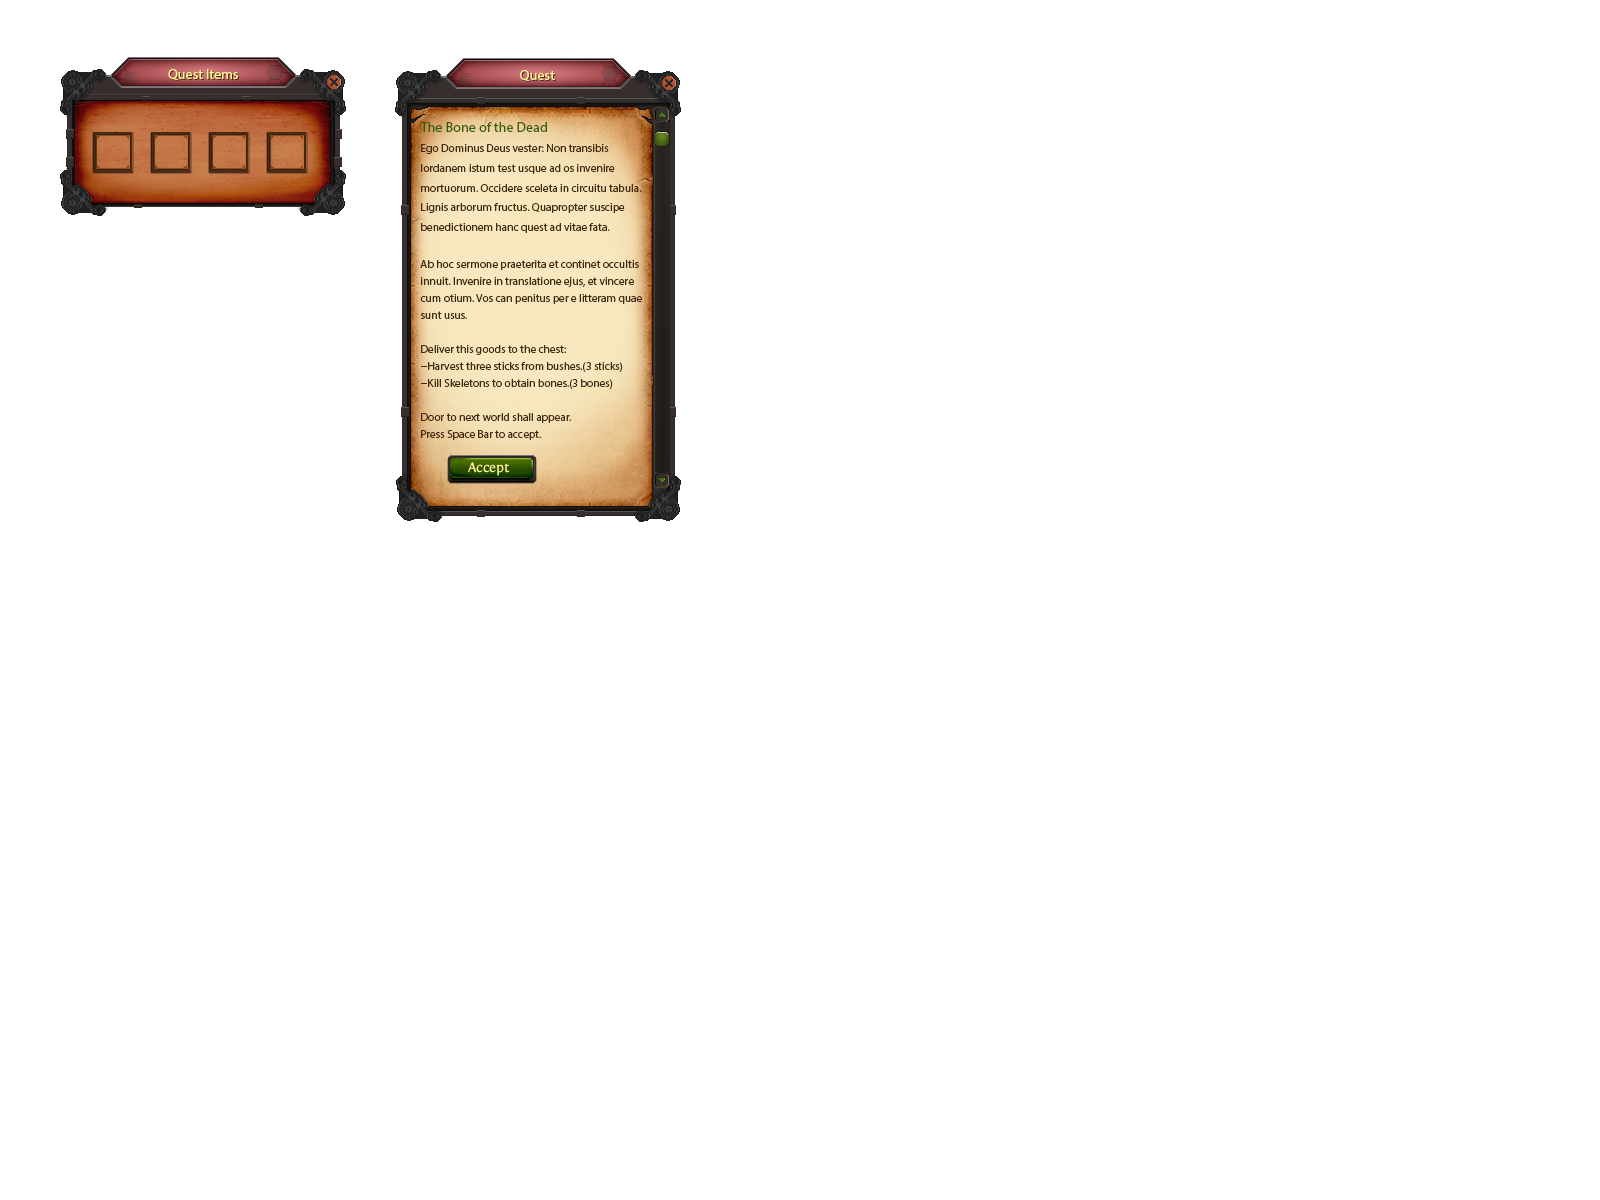
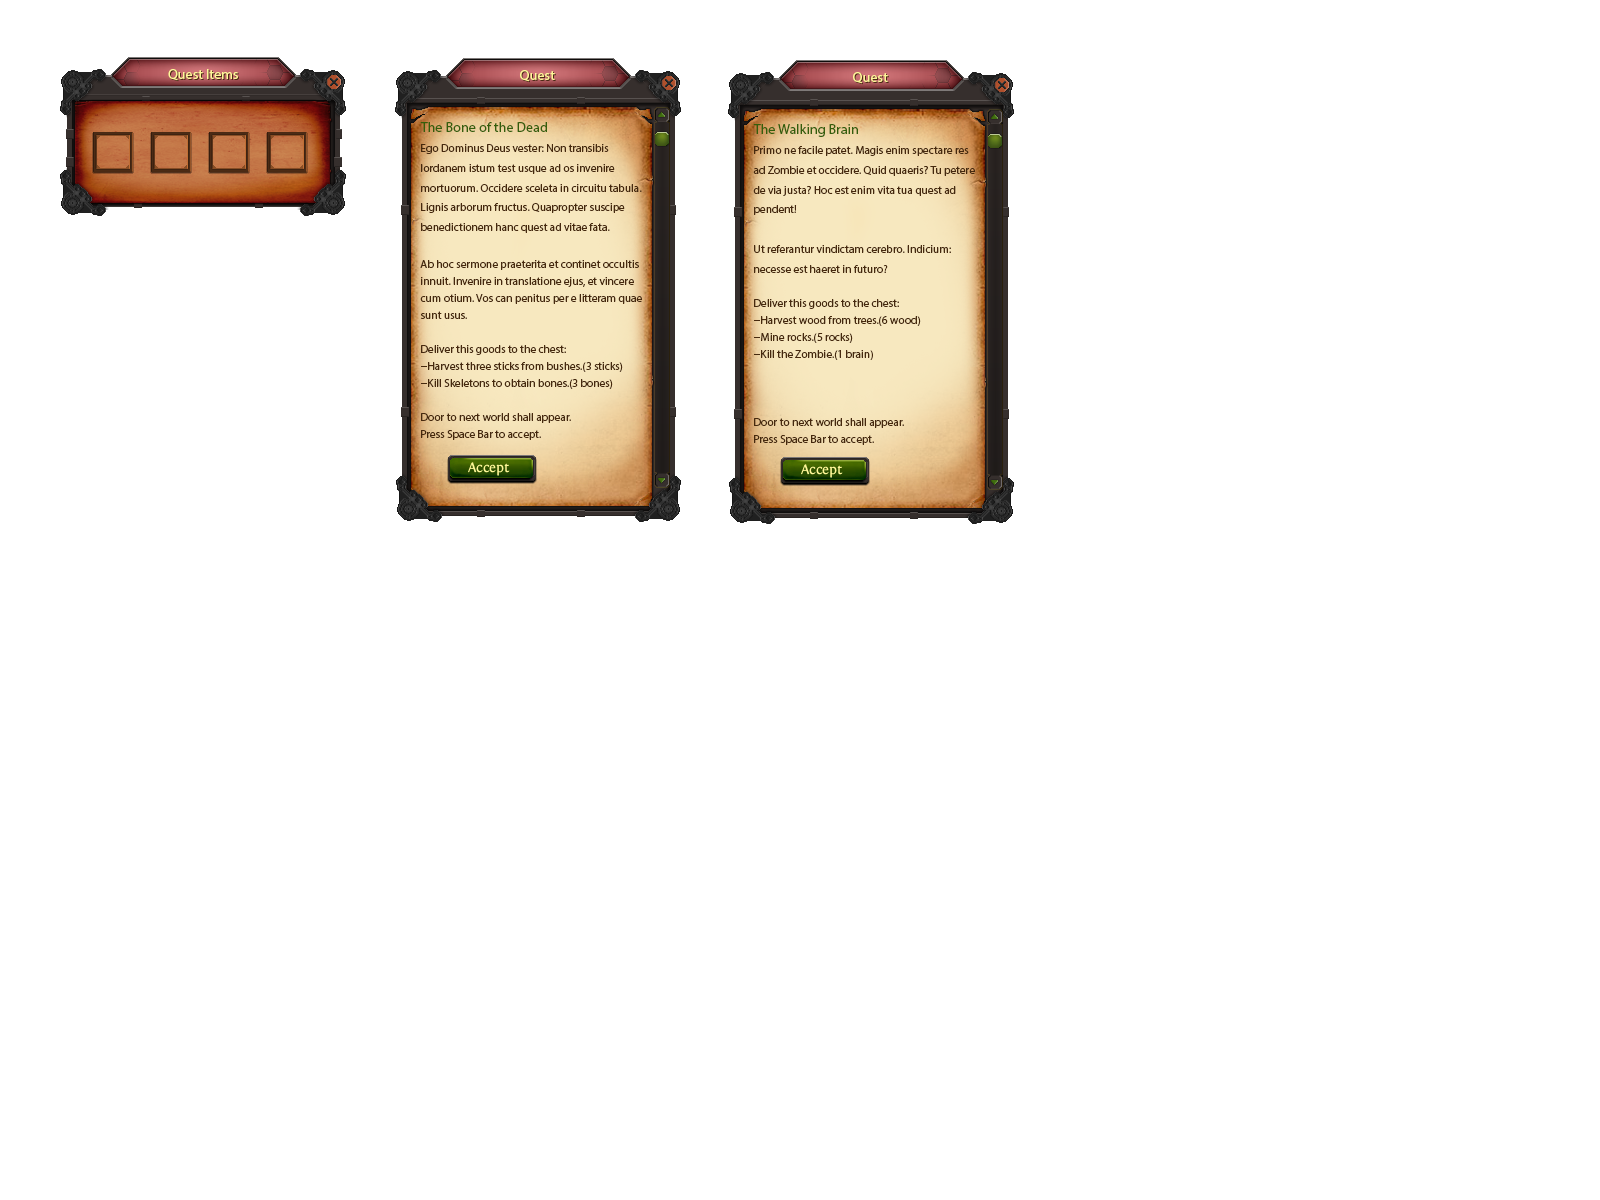
Added auto-close to chest. Implemented quest2 in Caveworld. Fixed the way quest items are added.(this makes it possible to change items of different worlds.)

Changed region(s): [[0.4375, 0.0308, 0.6562, 0.4317]]

diff --git a/src/Quests/Quest2.java b/src/Quests/Quest2.java
@@ -1,6 +1,5 @@
 package Quests;
 
-import Game.Inventories.QuestItems;
 import Game.Items.Item;
 import Game.SpellCast.FireBallSpell;
 import Resources.Images;
@@ -16,36 +15,34 @@ import java.util.ArrayList;
 /**
  * Created by Elemental on 1/3/2017.
  */
-public class Quest1 {
+public class Quest2 {
 
     private Handler handler;
-    private boolean active = true;
+    private boolean active = false;
     private UIManager uiManager;
     private boolean readQuest = false;
-    private static ArrayList<Item> Quest1Items;
+    private static ArrayList<Item> Quest2Items;
     public static Item woodItem = new Item(Images.items[1],"Wood",0);
     public static Item stickItem = new Item(Images.items[0],"Stick",3);
     public static Item rockItem = new Item(Images.blocks[14],"Rock",1);
     public static Item fireRuneItem = new Item(Images.Runes[2],"Fire Rune",2);
     public static Item boneItem = new Item(Images.items[2],"Bone",4);
-    
-    public Quest1(Handler handler){
-		Quest1Items = new ArrayList<>();
-		stickItem.setCount(3);
-        boneItem.setCount(3);
-		Quest1Items.add(stickItem);
-		Quest1Items.add(boneItem);
+    public Quest2(Handler handler){
+    	Quest2Items = new ArrayList<>();
+		woodItem.setCount(6);
+        rockItem.setCount(5);
+		Quest2Items.add(woodItem);
+		Quest2Items.add(rockItem);
         this.handler=handler;
-        
         uiManager = new UIManager(handler);
 
-        uiManager.addObjects(new UIQuest(470, 0, 288, 473, Images.quest[1],() -> {
+        uiManager.addObjects(new UIQuest(470, 0, 288, 473, Images.quest[2],() -> {
         }));
     }
 
     public void tick() {
     	
-        if(handler.getKeyManager().keyJustPressed(KeyEvent.VK_SPACE) && readQuest == false){
+        if(handler.getKeyManager().keyJustPressed(KeyEvent.VK_SPACE) && readQuest == false && active == true){
             active=!active;
             readQuest = true;
             handler.getWorld().getEntityManager().getPlayer().getSpellGUI().setActive(false);
@@ -64,7 +61,7 @@ public class Quest1 {
     }
 
     public void render(Graphics g) {
-
+    	
         if(!active){
             uiManager.isActive(uiManager.getObjects(),false);
             return;
@@ -74,7 +71,7 @@ public class Quest1 {
         uiManager.isActive(uiManager.getObjects(),true);
         uiManager.Render(g);
         g.setColor(Color.white);
-
+    	
 
     }
 
@@ -85,8 +82,8 @@ public class Quest1 {
     public boolean isActive() {
         return active;
     }
-    public ArrayList<Item> getQuest1Items() {
-		return Quest1Items;
+    public ArrayList<Item> getQuest2Items() {
+		return Quest2Items;
     }
     public void setHandler(Handler handler) {
         this.handler = handler;

diff --git a/src/Worlds/BaseWorld.java b/src/Worlds/BaseWorld.java
@@ -3,6 +3,7 @@ package Worlds;
 import Game.Entities.Creatures.Player;
 import Game.Entities.EntityManager;
 import Game.GameStates.State;
+import Game.Items.Item;
 import Game.Items.ItemManager;
 import Game.Tiles.Tile;
 import Main.Handler;
@@ -25,6 +26,7 @@ public class BaseWorld {
     protected static BaseWorld nextWorld;
     protected EntityManager entityManager;
     protected Quest1 quest1;
+    protected boolean worldStart;
 
     //Item
     protected ItemManager itemManager;
@@ -36,7 +38,7 @@ public class BaseWorld {
         this.handler=handler;
         entityManager = new EntityManager(handler,player);
         itemManager=new ItemManager(handler);
-
+        worldStart = false;
         loadWorld(path);
 
     }
@@ -56,8 +58,16 @@ public class BaseWorld {
         }
         if(handler.getKeyManager().skipbut){
         	g.drawImage(Images.loading,0,0,800,600,null);
+        	handler.getWorld().getEntityManager().getPlayer().getQuestItems().setActive(false);
+            handler.getWorld().getEntityManager().getPlayer().getQuest2().setActive(true);
+            handler.getWorld().getEntityManager().getPlayer().getQuestItems().getQuestItems().clear();
         	handler.setWorld(nextWorld);
+        	handler.getWorld().setWorldStart(true);
       }
+        if (worldStart) {
+        	addQuestItems();
+        	worldStart = false;
+        }
     }
 
     public void render(Graphics g){
@@ -83,6 +93,7 @@ public class BaseWorld {
         entityManager.getPlayer().getInventory().render(g);
         entityManager.getPlayer().getSpellGUI().render(g);
         entityManager.getPlayer().getQuest1().render(g);
+        entityManager.getPlayer().getQuest2().render(g);
         entityManager.getPlayer().getQuestItems().render(g);
 
     }
@@ -111,10 +122,12 @@ public class BaseWorld {
                 tiles[x][y] = Utils.parseInt(tokens[(x + y * width) + 4]);
             }
         }
-
+        
 
     }
-
+    public void addQuestItems() {
+    	
+    }
     public int getWidth(){
         return width;
     }
@@ -141,6 +154,12 @@ public class BaseWorld {
 
     public void setItemManager(ItemManager itemManager) {
         this.itemManager = itemManager;
+    }
+    public void setWorldStart(boolean status) {
+    	this.worldStart = status;
+    }
+    public boolean getWorldStart() {
+    	return this.worldStart;
     }
 
 }

diff --git a/src/Game/Entities/Creatures/Player.java b/src/Game/Entities/Creatures/Player.java
@@ -10,6 +10,7 @@ import Resources.Animation;
 import Resources.Images;
 import Main.Handler;
 import Quests.Quest1;
+import Quests.Quest2;
 
 import java.awt.*;
 import java.awt.event.KeyEvent;
@@ -30,6 +31,7 @@ public class Player extends CreatureBase {
     //Inventory
     private Inventory inventory;
     private Quest1 quest1;
+    private Quest2 quest2;
     private QuestItems questItems;
     private SpellCastUI spellGUI;
 
@@ -76,6 +78,7 @@ public class Player extends CreatureBase {
         inventory= new Inventory(handler);
         spellGUI= new SpellCastUI(handler);
         quest1 = new Quest1(handler);
+        quest2 = new Quest2(handler);
         questItems = new QuestItems(handler);
     }
 
@@ -131,6 +134,7 @@ public class Player extends CreatureBase {
         //Inventory
         inventory.tick();
         quest1.tick();
+        quest2.tick();
         questItems.tick();
         //spellgui
         spellGUI.tick();
@@ -138,6 +142,7 @@ public class Player extends CreatureBase {
         if(handler.getKeyManager().lifebut && health < maxHealth) {
             this.health ++;
         }
+        
     }
     
     @Override
@@ -365,6 +370,9 @@ public class Player extends CreatureBase {
     }
     public Quest1 getQuest1() {
         return quest1;
+    }
+    public Quest2 getQuest2() {
+        return quest2;
     }
     public QuestItems getQuestItems() {
         return questItems;

diff --git a/src/Worlds/World1.java b/src/Worlds/World1.java
@@ -18,11 +18,6 @@ public class World1 extends BaseWorld{
 
     private Handler handler;
     private BaseWorld caveWorld;
-    public static Item woodItem = new Item(Images.items[1],"Wood",0);
-    public static Item stickItem = new Item(Images.items[0],"Stick",3);
-    public static Item rockItem = new Item(Images.blocks[14],"Rock",1);
-    public static Item fireRuneItem = new Item(Images.Runes[2],"Fire Rune",2);
-    public static Item boneItem = new Item(Images.items[2],"Bone",4);
 
     public World1(Handler handler, String path, Player player){
         super(handler,path,player);
@@ -45,11 +40,12 @@ public class World1 extends BaseWorld{
         entityManager.addEntity(new Bush(handler,575,895,"Bush"));
         entityManager.getPlayer().setX(spawnX);
         entityManager.getPlayer().setY(spawnY);
-        stickItem.setCount(3);
-        QuestItems.addItem(stickItem);
-        boneItem.setCount(3);
-        QuestItems.addItem(boneItem);
-        
         nextWorld = caveWorld;
+    }
+    @Override
+    public void addQuestItems() {
+    	for (Item item : handler.getWorld().getEntityManager().getPlayer().getQuest1().getQuest1Items()) {
+			QuestItems.addItem(item);
+		}
     }
 }

diff --git a/src/Game/Entities/Statics/Chest.java b/src/Game/Entities/Statics/Chest.java
@@ -28,6 +28,7 @@ public class Chest extends StaticEntity {
     private int RNGR;
     private boolean opened = false;
     private Rectangle ir = new Rectangle();
+    private int timeOpen;
 
     public Chest(Handler handler, float x, float y, String type) {
         super(handler, x, y, Tile.TILEWIDTH, Tile.TILEHEIGHT);
@@ -60,6 +61,13 @@ public class Chest extends StaticEntity {
 
     @Override
     public void tick() {
+    	if(opened) {
+    		timeOpen++;
+    	}
+    	if(timeOpen>=300) {
+    		opened = false;
+    		timeOpen = 0;
+    	}
         if(isBeinghurt()) { 
         	deliverItems();
         	if(opened) {
@@ -85,7 +93,7 @@ public class Chest extends StaticEntity {
         	health = 1000000;
         	
     	}
-        if(handler.getWorld().getEntityManager().getPlayer().getQuestItems().getQuestItems().isEmpty()) {
+        if(handler.getWorld().getEntityManager().getPlayer().getQuestItems().getQuestItems().isEmpty()&& !handler.getWorld().getWorldStart()) {
         	active = false;
     		die();
         }

diff --git a/src/Game/Entities/Statics/Door.java b/src/Game/Entities/Statics/Door.java
@@ -41,7 +41,7 @@ public class Door extends StaticEntity {
 
     @Override
     public void tick() {
-
+    	
         if(isBeinghurt()){
             setHealth(10000000);
         }
@@ -73,8 +73,10 @@ public class Door extends StaticEntity {
         }else if(ir.contains(pr) && EP){
             g.drawImage(Images.EP,(int) x+width,(int) y+10,32,32,null);
             g.drawImage(Images.loading,0,0,800,600,null);
+            handler.getWorld().getEntityManager().getPlayer().getQuestItems().setActive(false);
+            handler.getWorld().getEntityManager().getPlayer().getQuest2().setActive(true);
             handler.setWorld(world);
-
+            handler.getWorld().setWorldStart(true);
         }
     }
 

diff --git a/src/UI/UIQuest.java b/src/UI/UIQuest.java
@@ -6,12 +6,12 @@ import java.awt.image.BufferedImage;
 /**
  * Created by Elemental on 1/31/2017.
  */
-public class UIQuest1 extends UIObject {
+public class UIQuest extends UIObject {
     private BufferedImage images;
     private ClickListlener clicker;
 
 
-    public UIQuest1(float x, float y, int width, int height, BufferedImage images,ClickListlener clicker ) {
+    public UIQuest(float x, float y, int width, int height, BufferedImage images,ClickListlener clicker ) {
         super(x, y, width, height);
         this.images=images;
         this.clicker=clicker;

diff --git a/src/Resources/Images.java b/src/Resources/Images.java
@@ -100,7 +100,7 @@ public class Images {
         FireBallDown = new BufferedImage[6];
 
         chest = new BufferedImage[2];
-        quest = new BufferedImage[2];
+        quest = new BufferedImage[3];
 
 
         try {
@@ -226,6 +226,7 @@ public class Images {
           //Quest
             quest[0] = Questsheet.crop(63, 54, 293, 166);//chest
             quest[1] = Questsheet.crop(390, 54, 298, 473);//quest info
+            quest[2] = Questsheet.crop(724, 54, 298, 473);//quest2 info 
 
 
             //player anim

diff --git a/src/Worlds/CaveWorld.java b/src/Worlds/CaveWorld.java
@@ -1,6 +1,9 @@
 package Worlds;
 import Game.Entities.Creatures.Player;
+import Game.Inventories.QuestItems;
+import Game.Items.Item;
 import Main.Handler;
+import Resources.Images;
 
 /**
  * Created by Elemental on 2/10/2017.
@@ -15,5 +18,10 @@ public class CaveWorld extends BaseWorld{
         this.player=player;
     }
 
-
+    @Override
+    public void addQuestItems() {
+    	for (Item item : handler.getWorld().getEntityManager().getPlayer().getQuest2().getQuest2Items()) {
+			QuestItems.addItem(item);
+		}
+    }
 }

diff --git a/src/Game/Entities/Creatures/CreatureBase.java b/src/Game/Entities/Creatures/CreatureBase.java
@@ -20,7 +20,7 @@ public abstract class CreatureBase extends EntityBase {
     protected static final float DEFAULT_SPEED = 3.0f;
     protected static final int DEFAULT_CREATURE_WIDTH = 64, DEFAULT_CREATURE_HEIGHT = 64;
 
-    protected int attack = 6;
+    protected int attack = 3;
 
     protected float speed;
     protected float xMove, yMove;

diff --git a/src/Game/GameStates/GameState.java b/src/Game/GameStates/GameState.java
@@ -17,6 +17,7 @@ public class GameState extends State {
         Player player = new Player(handler, 100, 100);
         BaseWorld world = new World1(handler, "res/Maps/map1.map", player);
         handler.setWorld(world);
+        handler.getWorld().setWorldStart(true);
         handler.getWorld().getEntityManager().setPlayer(player);
     }
 
